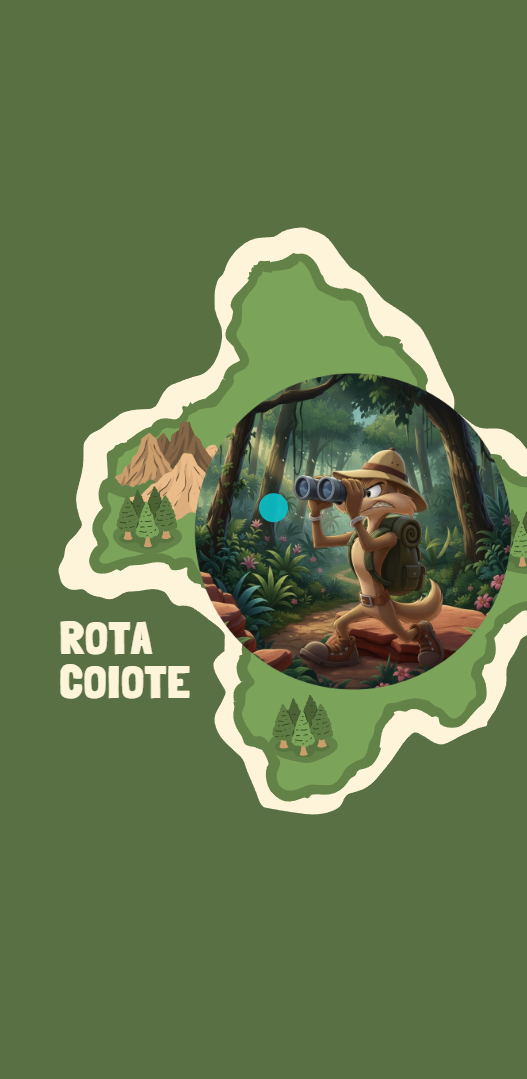
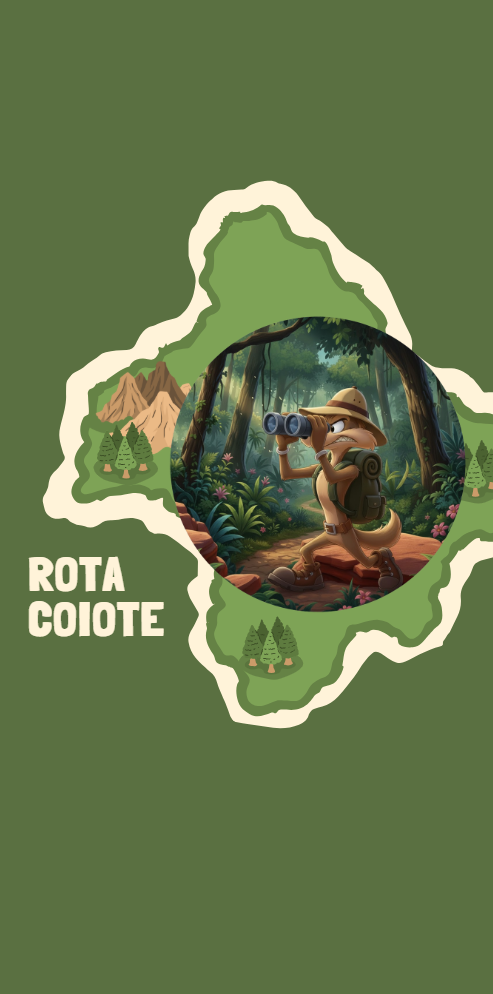
Atualização mobile final

Changed region(s): [[0.0609, 0.1559, 1.0, 0.7797]]

diff --git a/roteiros/style.css b/roteiros/style.css
@@ -88,10 +88,6 @@ a{
     min-width:80px;
 }
 
-.conteudo{
-    padding:20px;
-}
-
 .conteudo h3{
     margin-bottom:8px;
     color:var(--verde-floresta);
@@ -153,6 +149,74 @@ a{
     border-radius: 50%;
 }
 
+.container-igreja {
+    width: 100vw;
+    height: 100vh;
+    display: flex;
+    flex-direction: column;
+    justify-content: center;
+    align-items: center;
+    gap: 3vh;
+    background-image: 
+        linear-gradient(rgba(0, 0, 0, 0.5), rgba(0, 0, 0, 0.5));
+}
+
+.container-igreja > * {
+    backdrop-filter: blur(6px);
+}
+
+.h1-igreja {
+    width: 50%;
+    color: #f5f5f5;
+    font-size: 1rem;
+    letter-spacing: 1px;
+    text-transform: uppercase;
+    text-align: center;
+    text-shadow: 2px 2px 8px rgba(0, 0, 0, 0.8);
+    border-bottom: 2px solid #c9a227;
+    padding-bottom: 5px;
+}
+
+.imagem-igreja {
+    width: 60vw;
+    border-radius: 12px;
+    box-shadow: 0 10px 30px rgba(255, 234, 2, 0.319);
+}
+
+.p-igreja{
+    width: 70vw;
+    font-size: 0.5rem;
+    color: #e0e0e0;
+    text-align: st;
+}
+
+.container-mapa {
+    width: 100vw;
+    height: 100vh;
+    background: url("../img/mapadesktop.png") no-repeat center center fixed;
+    background-size: cover;
+}
+
+@media (min-width: 400px){
+.container{
+    width:100vw;
+    height: 100vh;
+    display: flex;
+    flex-direction: column;
+    align-items: center;
+    justify-content: center;
+}
+
+.item{
+    width: 60vw;
+}
+
+.conteudo {
+    height: 100vh;
+    padding: 10px;
+}
+}
+
 /* RESPONSIVO */
 @media (max-width: 400px){
     body{
@@ -176,7 +240,7 @@ a{
     }
 
     .container-inicio{
-    background: url(../img/inicio.png) center / cover no-repeat;;
+    background: url(../img/inicio.png) center / cover no-repeat;
     }
 
     .item{
@@ -190,7 +254,7 @@ a{
 
     .numero{
         height: 10vh;
-        min-width:50px; /* menor para caber melhor no celular */
+        min-width:50px;
         font-size:1rem;
         padding:12px;
     }
@@ -222,6 +286,13 @@ a{
         font-size: 1rem;
         top: 85vh;
     }
+}
+
+.container-mapa {
+    width: 100vw;
+    height: 100vh;
+    background: url("../img/mapa.png") no-repeat center center fixed;
+    background-size: cover;
 }
 
 }

diff --git a/roteiros/igreja.html b/roteiros/igreja.html
@@ -1,0 +1,26 @@
+<!DOCTYPE html>
+<html lang="pt-br">
+<head>
+    <meta charset="UTF-8">
+    <meta name="viewport" content="width=device-width, initial-scale=1.0">
+    <title>Roteiro Universitário</title>
+    <link rel="preconnect" href="https://fonts.googleapis.com">
+<link rel="preconnect" href="https://fonts.gstatic.com" crossorigin>
+<link href="https://fonts.googleapis.com/css2?family=Oswald:wght@200..700&display=swap" rel="stylesheet">
+    <link rel="stylesheet" href="style.css">
+</head>
+
+<body>
+
+    <a href="menu.html" class="voltar">←</a>
+
+<div class="container-igreja">
+
+    <h1 class="h1-igreja">Igreja São Miguel das Tradições</h1>
+    <img class="imagem-igreja" src="../img/igreja.jpg">
+    <p class="p-igreja">Fundada em 12 de outubro de 1898, quando Coiote ainda era um pequeno povoado formado por tropeiros e agricultores, tornando-se desde o início o principal símbolo de união da comunidade. Erguida inicialmente em madeira pelos próprios moradores e reconstruída em alvenaria em 1915, sua torre passou a marcar o centro geográfico e social da cidade. Além de espaço religioso, a igreja foi cenário de assembleias comunitárias, registros civis, celebrações cívicas e decisões políticas que moldaram o crescimento de Coiote nas primeiras décadas do século XX, consolidando sua importância não apenas espiritual, mas também histórica e cultural para a identidade da cidade.</p>
+    
+</div>
+
+</body>
+</html>

diff --git a/roteiros/menu.html b/roteiros/menu.html
@@ -26,6 +26,7 @@
     </div>
     </a>
 
+    <a href="mapa.html">
     <div class="item">
         <div class="numero">02</div>
         <div class="conteudo">
@@ -33,14 +34,17 @@
             <p>Sugestões pensadas de acordo com seu perfil e gostos.</p>
         </div>
     </div>
+    </a>
 
+    <a href="igreja.html">
     <div class="item">
         <div class="numero">03</div>
         <div class="conteudo">
             <h3>Ler QR CODE</h3>
-            <p>Saiba mais sobre restaurantes, passeios, contexto histórico de locais visitados.</p>
+            <p>Saiba mais sobre contexto histórico de locais visitados.</p>
         </div>
     </div>
+    </a>
 
 </div>
 

diff --git a/roteiros/mapa.html b/roteiros/mapa.html
@@ -1,0 +1,24 @@
+<!DOCTYPE html>
+<html lang="pt-br">
+<head>
+    <meta charset="UTF-8">
+    <meta name="viewport" content="width=device-width, initial-scale=1.0">
+    <title>Roteiro Universitário</title>
+    <link rel="preconnect" href="https://fonts.googleapis.com">
+<link rel="preconnect" href="https://fonts.gstatic.com" crossorigin>
+<link href="https://fonts.googleapis.com/css2?family=Oswald:wght@200..700&display=swap" rel="stylesheet">
+    <link rel="stylesheet" href="style.css">
+</head>
+
+<body>
+
+    <a href="./menu.html" class="voltar">←</a>
+
+<div class="container-mapa">
+
+
+
+</div>
+
+</body>
+</html>
